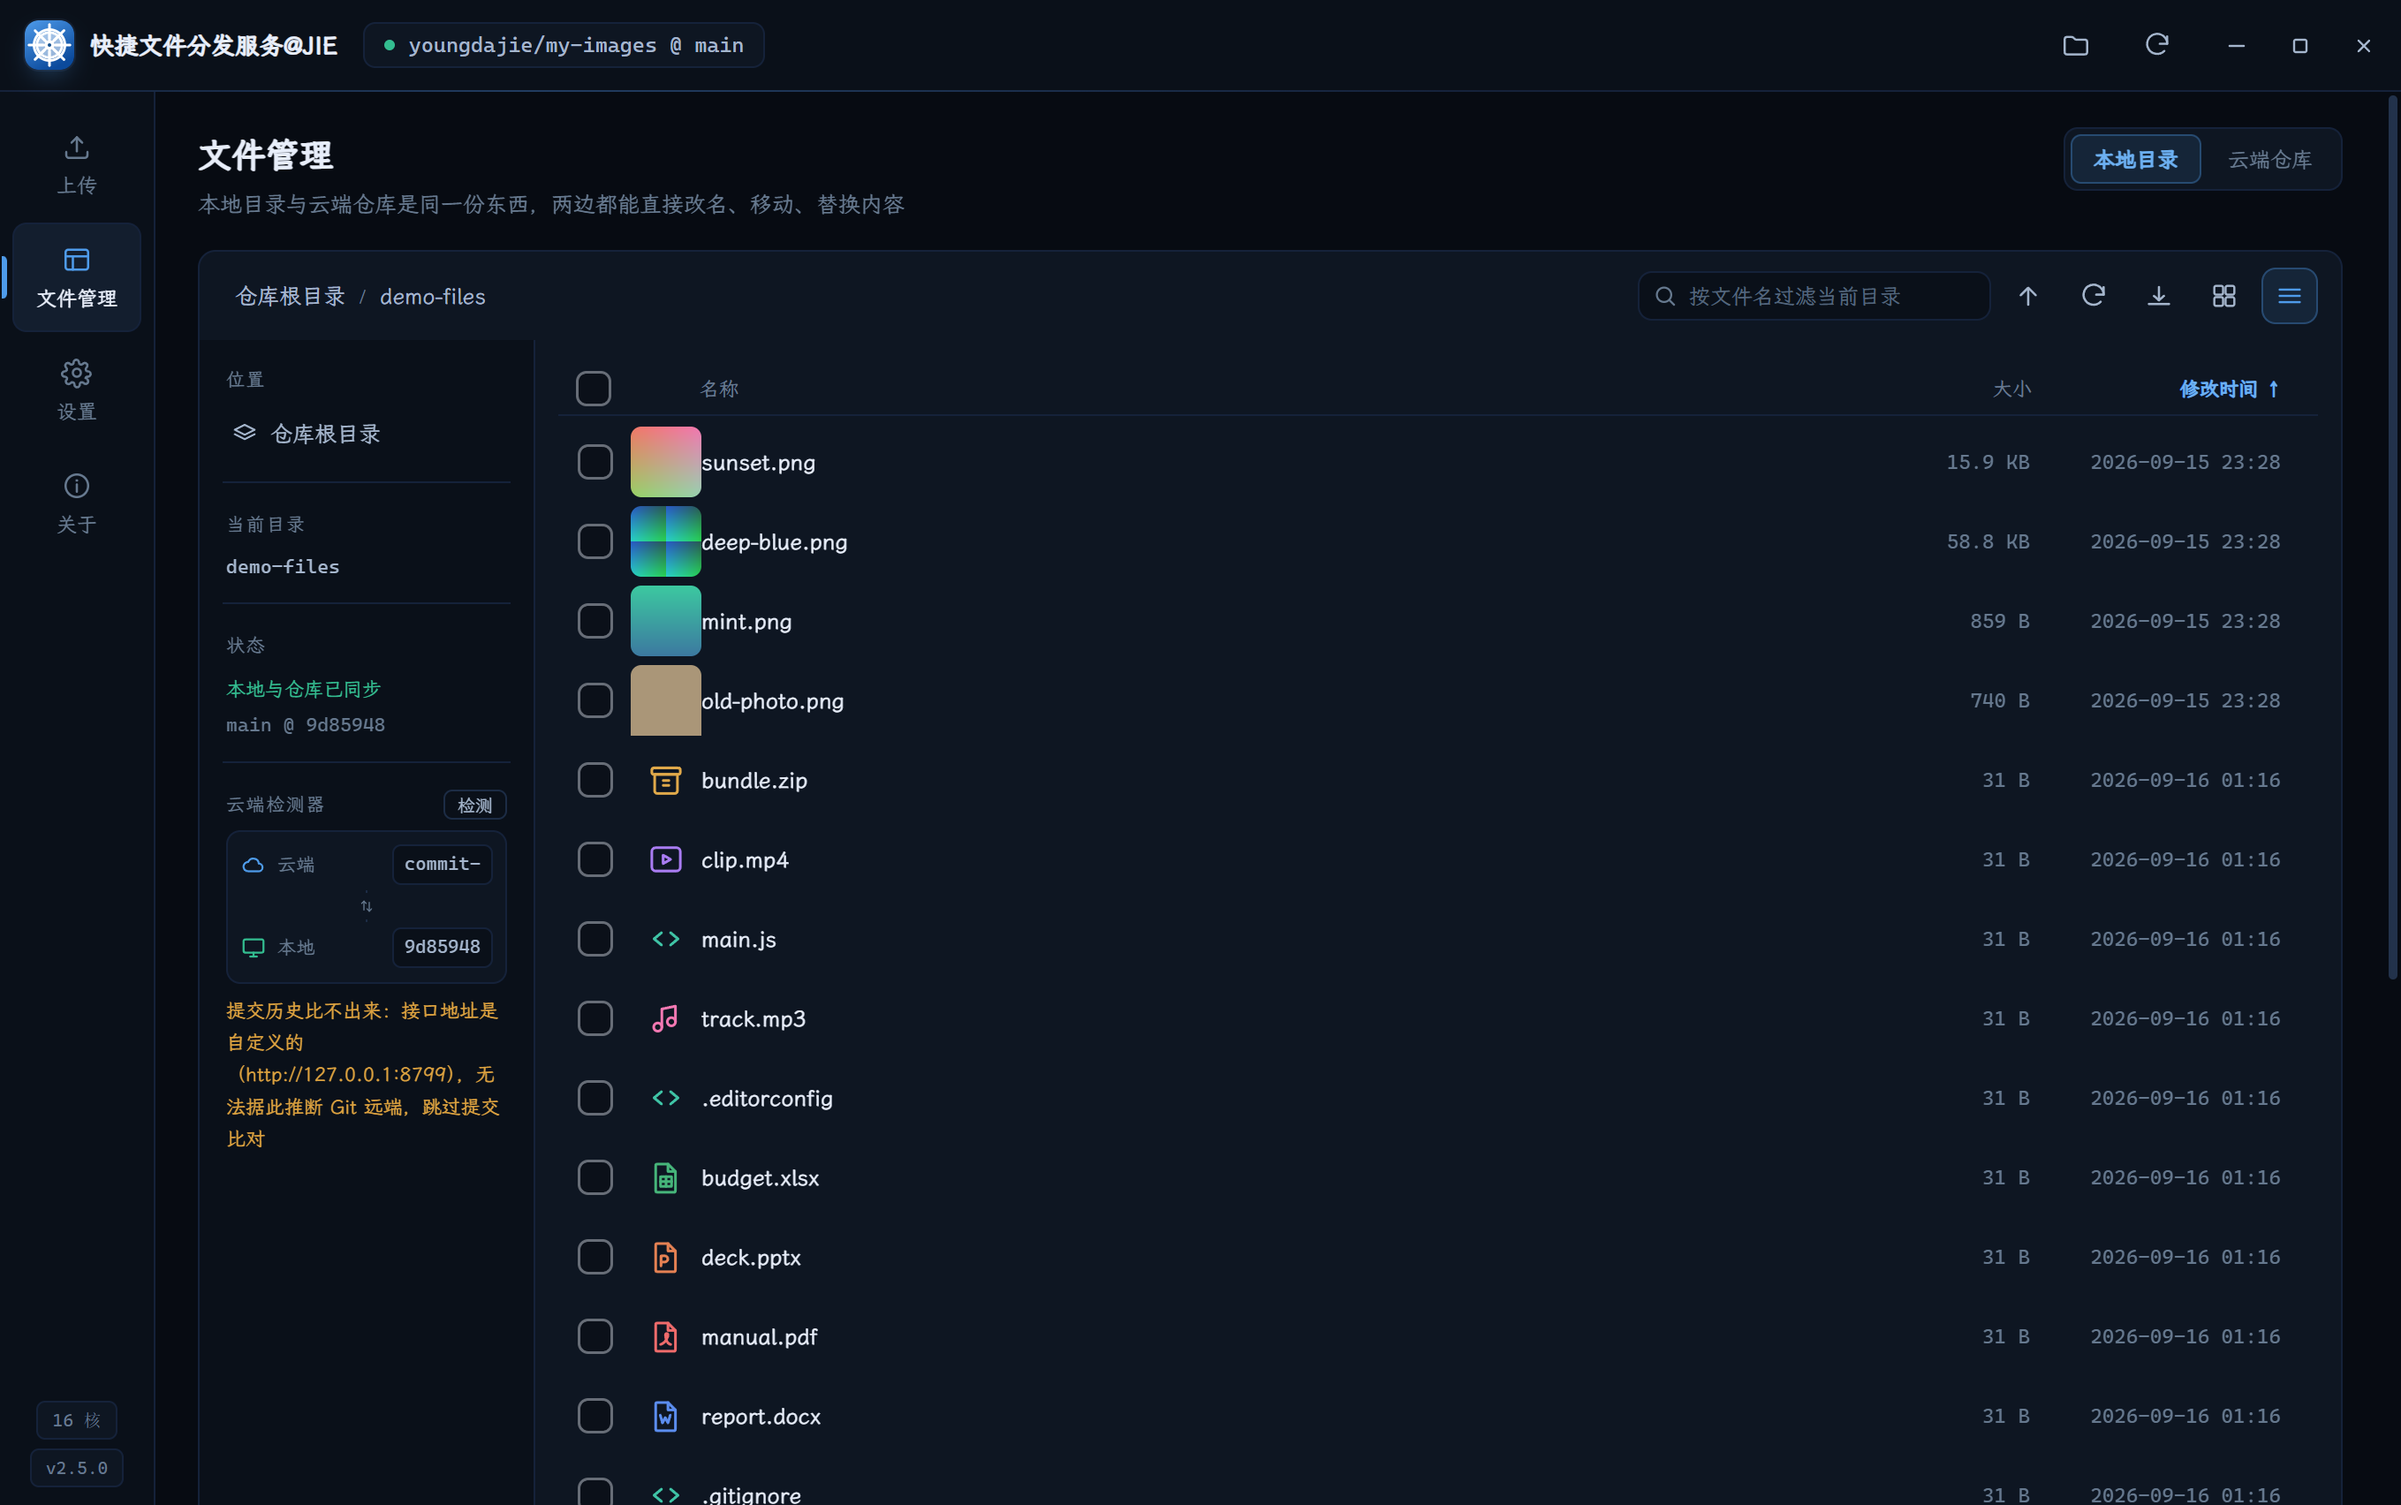
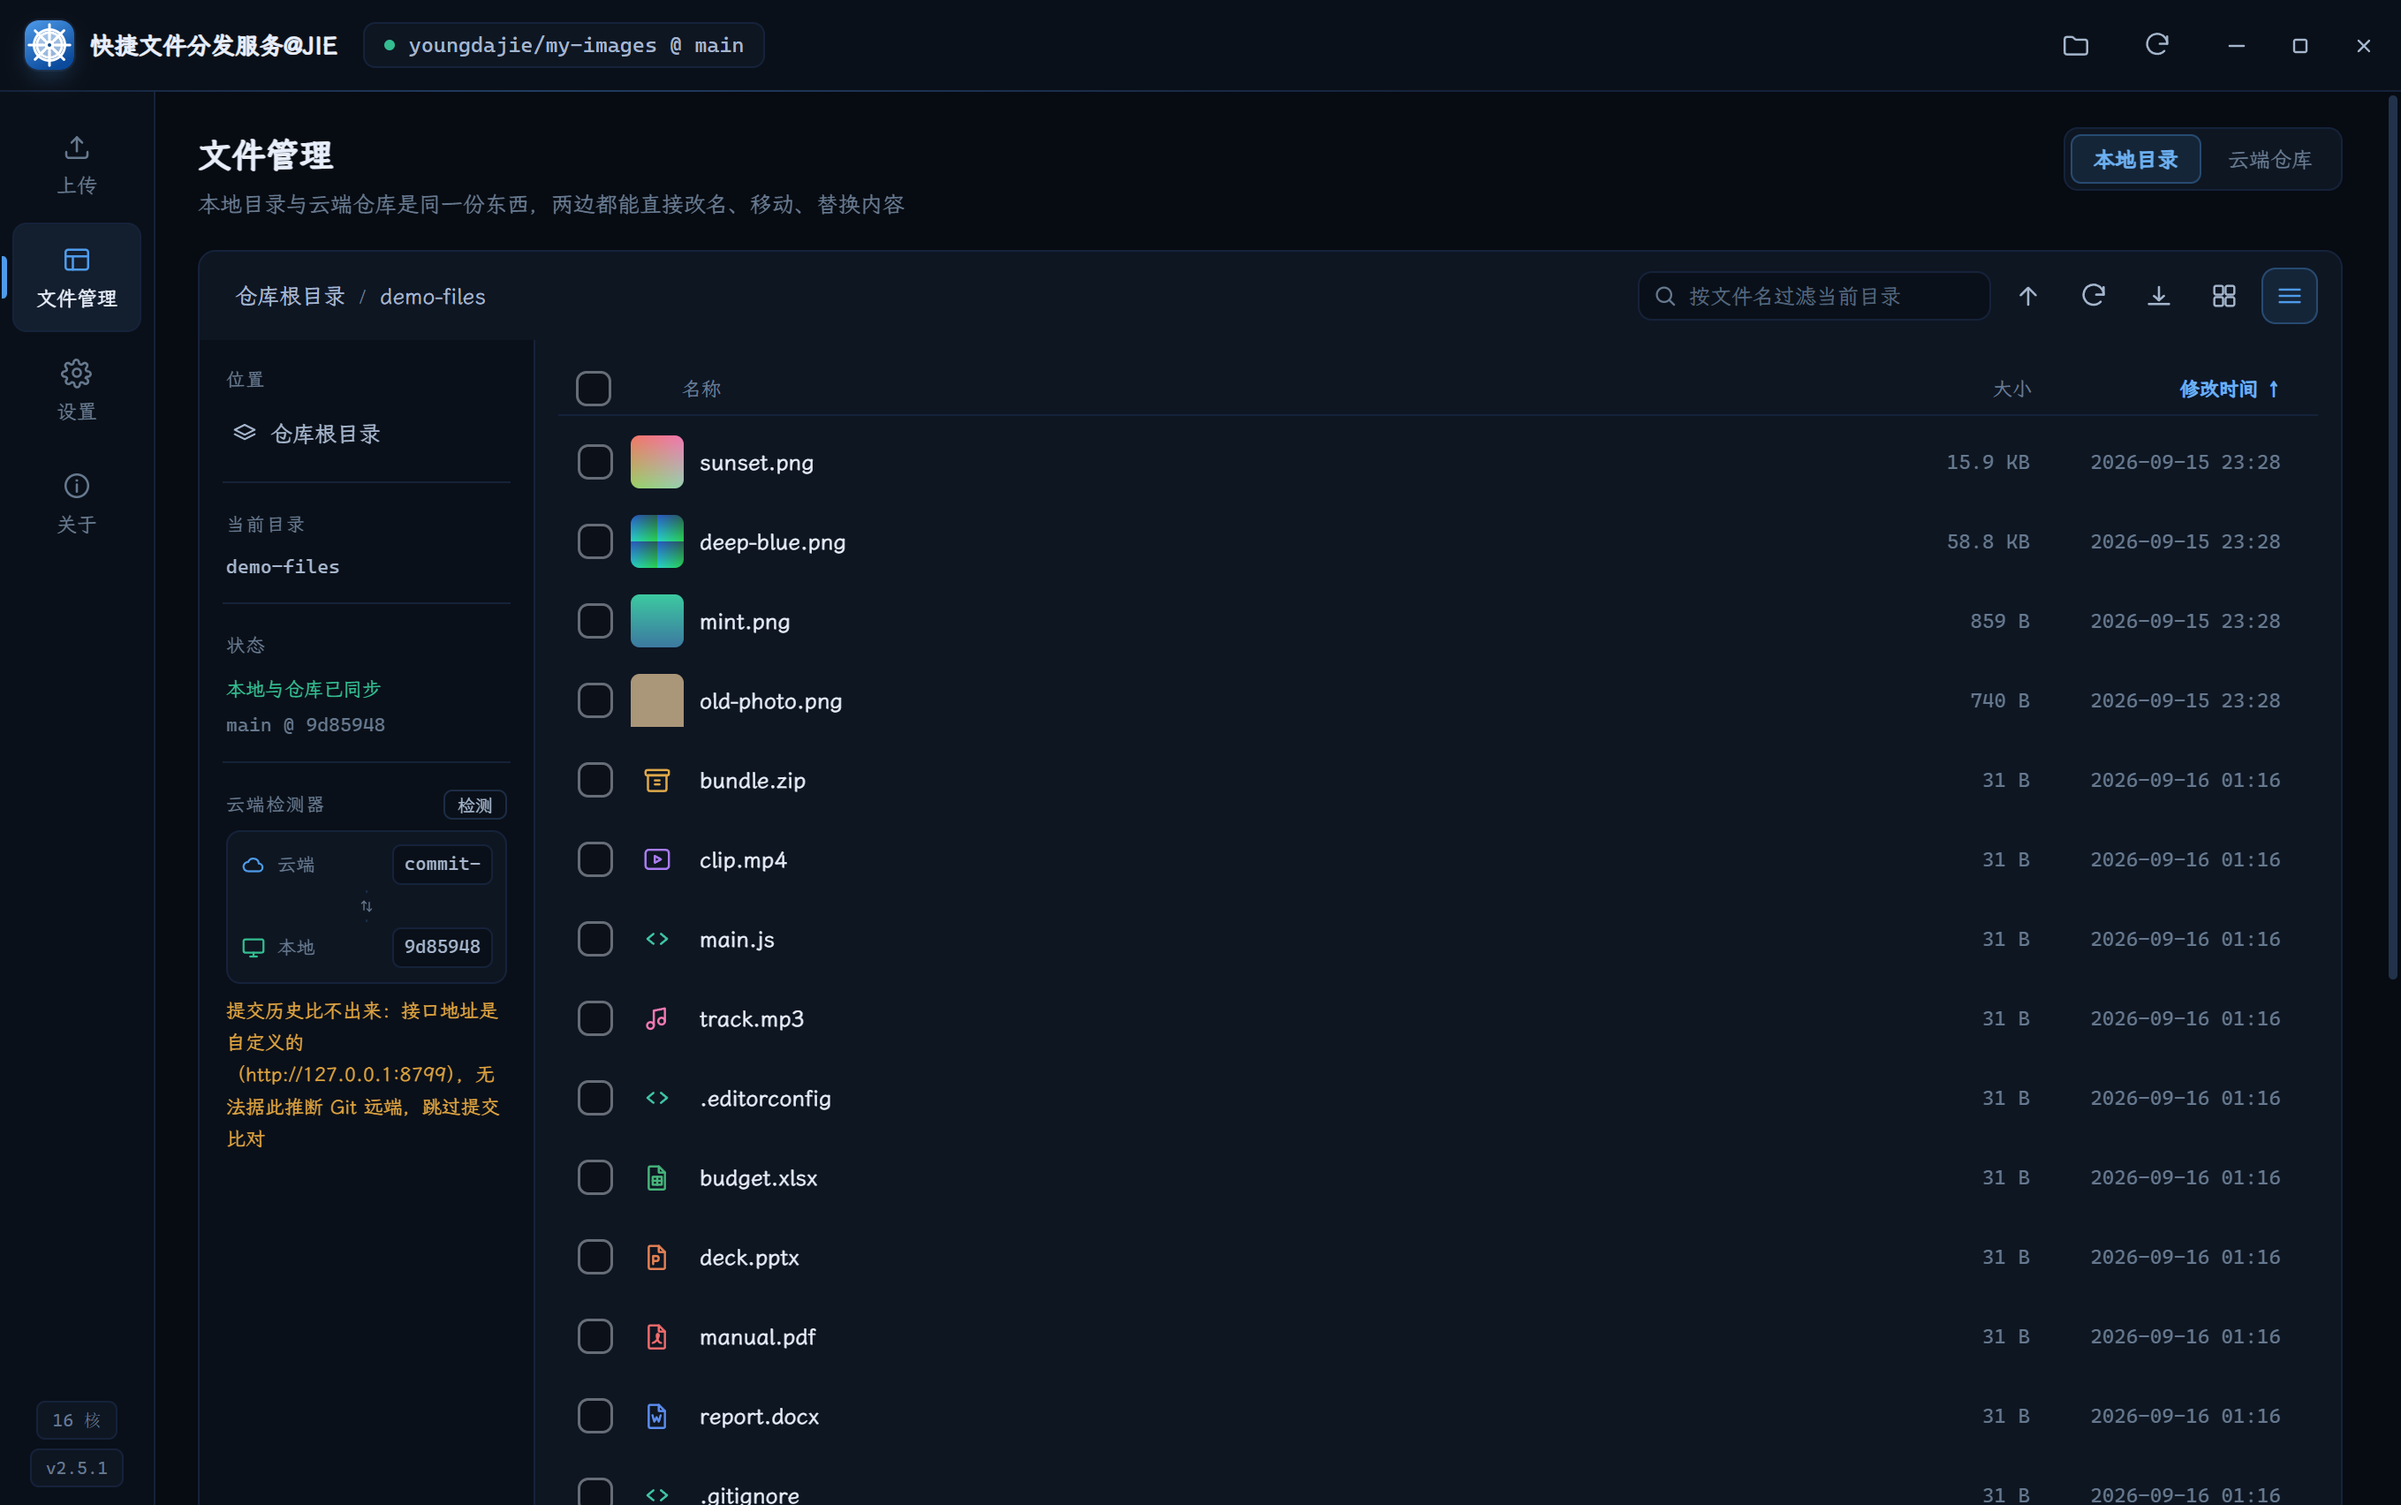
fix(manage): 列表视图缩略图小一号（40px → 30px），版本 2.5.1
44px 高的行里放 40px 的缩略图，上下只剩 2px。图片缩略图是实心色块，
比旁边的线条图标沉得多，一行扫下来把右边的文件名压得几乎看不见。
改成 30px（占行高 68%），文件图标同步 22px → 18px，缩略图和文件名
之间补 9px 间距。

顺带把 --shots 改成自己切到「本地目录」。之前它依赖 --fstest 留下的状态，
单独跑时浏览源停在云端，demo-files 不在云端列表里，dive 必然落空
（那次拍出来是一张空仓库）。现在单独跑也靠得住，改完 UI 验证一次 80 秒。

自检 --selftest --shots errors=0；打包体 --selftest errors=0。
installers/ 里只留这一版（115,353,462 字节）。

diff --git a/src/renderer/css/app.css b/src/renderer/css/app.css
@@ -1038,7 +1038,9 @@ select.csel-native {
 /* 列宽共用变量，保证列表模式的表头和行严丝合缝对齐 */
 .mg-main {
   flex: 1; min-width: 0; padding: 13px; position: relative;
-  --col-icon: 40px; --col-check: 30px; --col-size: 96px; --col-time: 142px;
+  /* 图标列 30px：44px 的行里塞 40px 的图，上下只剩 2px，图片缩略图会把整行压得很重，
+     和右边 12.5px 的文件名不成比例（列表里一眼就看出来）。30px 加下面那点右边距刚好。 */
+  --col-icon: 30px; --col-check: 30px; --col-size: 96px; --col-time: 142px;
   border-bottom-right-radius: var(--radius);
   /* 桌面程序里不该能划选文字：双击文件名出现一条蓝色选词高亮，一眼就露馅是网页。
      条目层整体关掉，只对真正的输入控件放开（重命名弹层、搜索框）。
@@ -1210,10 +1212,13 @@ select.csel-native {
 .list-view .tile-thumb {
   width: var(--col-icon); height: var(--col-icon); flex: 0 0 auto;
   aspect-ratio: auto; background: transparent; border-radius: 0;
+  /* 图片是实心色块、图标是细线条，同一尺寸下图片更「重」。
+     留一点右边距，别让缩略图贴着文件名。 */
+  margin: 0 9px 0 0;
 }
-.list-view .tile-thumb img { width: 100%; height: 100%; object-fit: cover; border-radius: 6px; }
+.list-view .tile-thumb img { width: 100%; height: 100%; object-fit: cover; border-radius: 5px; }
 .list-view .tile-thumb .fi,
-.list-view .thumb-fallback .fi { width: 22px; height: 22px; max-width: 22px; max-height: 22px; }
+.list-view .thumb-fallback .fi { width: 18px; height: 18px; max-width: 18px; max-height: 18px; }
 .list-view .tile-name { flex: 1; min-width: 0; padding: 0 10px 0 0; font-size: 12.5px; }
 .list-view .tile-size {
   display: block; width: var(--col-size); flex: 0 0 auto;

diff --git a/src/main/main.js b/src/main/main.js
@@ -1734,6 +1734,17 @@ function runSelfTest() {
         await new Promise((r) => setTimeout(r, 2600));
         await wc.executeJavaScript(`document.querySelector('.nav-item[data-page="manage"]').click();`);
         await new Promise((r) => setTimeout(r, 2600));
+        // 自己把浏览源切到「本地目录」。不能指望上一步（--fstest）留下的状态：
+        // 单独跑 --shots 时源会停在云端，demo-files 根本不在云端列表里，dive 必然落空。
+        const srcLocal = await wc.executeJavaScript(
+          `(function(){
+             var b = document.querySelector('#sourceSeg button[data-source="local"]');
+             if (!b || b.classList.contains('active')) return false;
+             b.click();
+             return true;
+           })()`
+        );
+        if (srcLocal) await new Promise((r) => setTimeout(r, 2200));
         await dive('#mgGrid .tile[data-path="demo-files"]', 'manage-icons');
         await wc.executeJavaScript(`document.getElementById('btnMgList').click();`);
         await new Promise((r) => setTimeout(r, 900));

diff --git a/docs/releases/v2.5.1.md b/docs/releases/v2.5.1.md
@@ -1,0 +1,15 @@
+把免费的代码托管仓库当**文件仓库**用：图片在本地用多核 CPU 压缩好再推上去，其他文件原样上传。
+
+支持 **GitHub** 与 **CNB**（cnb.cool）双平台，基于 Electron 的 Windows 桌面应用。
+
+## 这一版改了什么
+
+- **列表视图的缩略图小了一号**。44px 高的行里塞一张 40px 的图，上下只剩 2px，而图片缩略图是实心色块，比旁边的线条图标沉得多 —— 一行扫下来，图片把文件名压得几乎看不见。现在是 30px，文件图标同步从 22px 调到 18px，缩略图和文件名之间也留了 9px 间距。
+
+## 安装
+
+下载下方的 `QuickFileDispatch-Setup-2.5.1.exe` 双击安装即可。
+
+- 系统要求：Windows 10 / 11（x64）
+- 建议装好 Git（用于本地仓库同步；没装也能浏览云端，只是慢一些）
+- 首次启动进入新手指引：选平台 → 填仓库与令牌（现场验证）→ 映射本地目录
